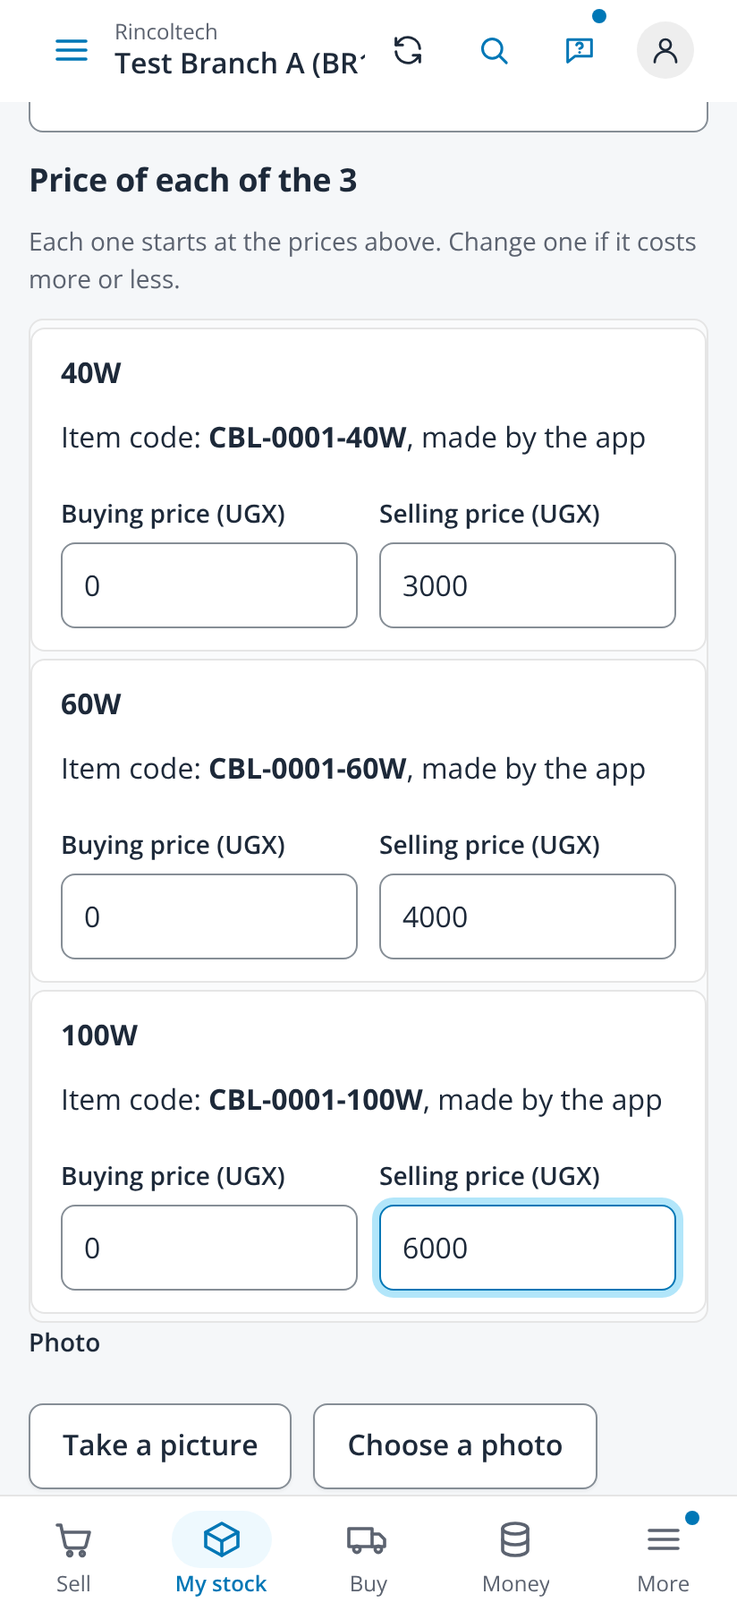
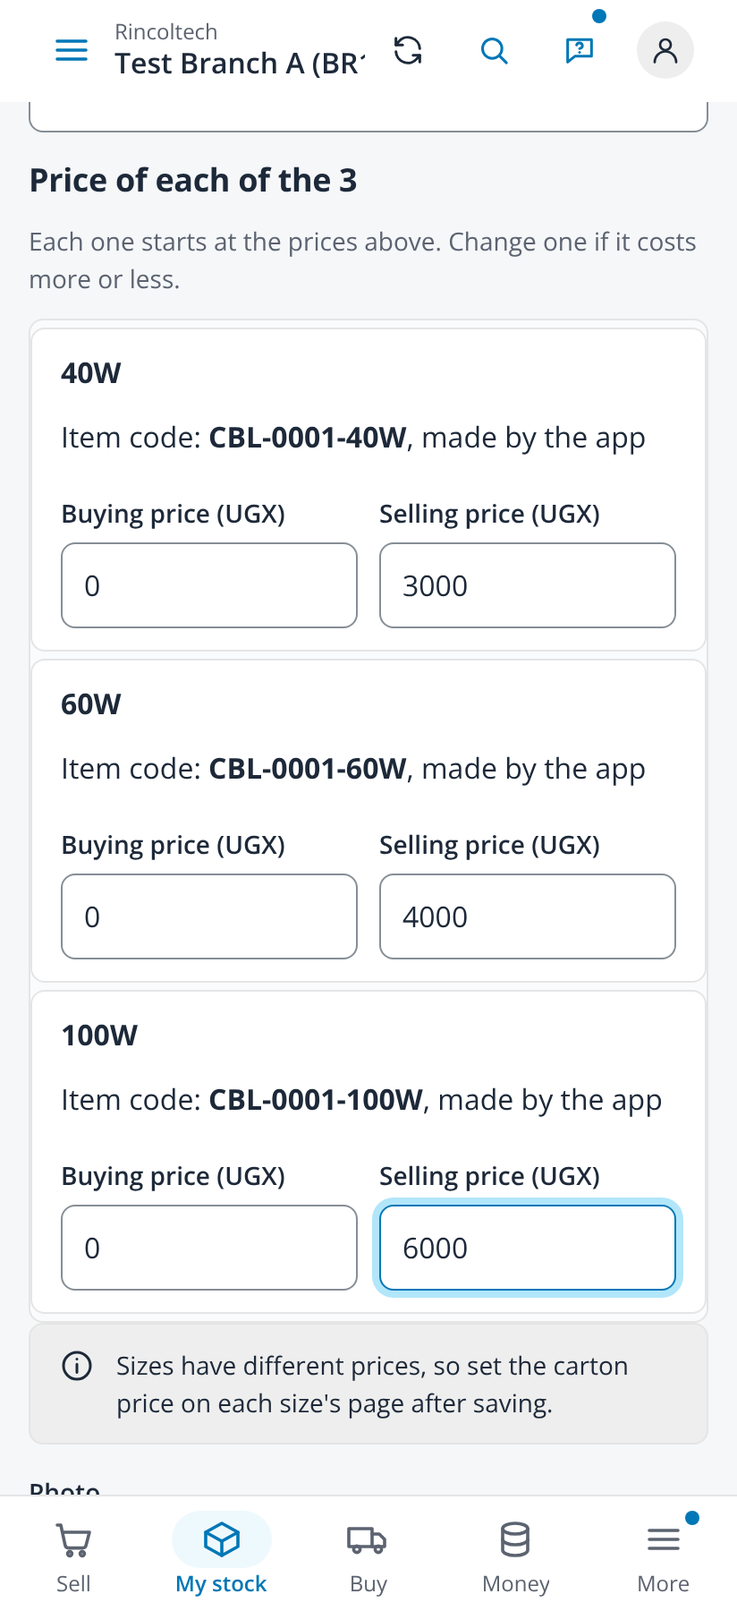
No package price is guessed for sizes priced apart; cable starts at 1mm (round 2 of #723)
While every size keeps the item's selling and buying price, each size's
package gets the price sent. Once any size has its own price, every
size's packages are made with no price of their own, on the server and
in the form, which says: Sizes have different prices, so set the carton
price on each size's page after saving. The scaling of the last push is
gone. The cable list ships 1mm instead of 1.0mm so it never shares the
code 10MM with 10mm. ADR-111, FR-RET-83, the endpoint row and the
screenshots follow.

Refs #697

Changed region(s): [[0.0303, 0.8089, 0.8495, 0.9333]]

diff --git a/frontend/src/areas/staff/retail/new-item-sizes.dom.test.tsx b/frontend/src/areas/staff/retail/new-item-sizes.dom.test.tsx
@@ -127,7 +127,12 @@ describe('sizes on Add an item', () => {
     fireEvent.click(screen.getByRole('radio', { name: 'Yes' }));
     fireEvent.change(screen.getByLabelText(/^Package unit/), { target: { value: 'u2' } });
     fireEvent.change(screen.getByLabelText(/^How many bulbs in one carton/), { target: { value: '24' } });
+    fireEvent.change(screen.getByLabelText(/^Selling price of one carton/), { target: { value: '96000' } });
+    expect(screen.queryByTestId('size-pack-note')).toBeNull();
     fireEvent.change(screen.getByLabelText('Selling price of 40W'), { target: { value: '3000' } });
+    fireEvent.change(screen.getByLabelText('Selling price of 100W'), { target: { value: '6000' } });
+    // Round 2 of #723: sizes priced apart get no carton price, and the form says where to set it.
+    expect(screen.getByTestId('size-pack-note').textContent).toBe("Sizes have different prices, so set the carton price on each size's page after saving.");
     fireEvent.click(screen.getByRole('button', { name: 'Add item' }));
     await waitFor(() => expect(createFamily).toHaveBeenCalledTimes(1));
     expect(createProduct).not.toHaveBeenCalled();
@@ -136,10 +141,43 @@ describe('sizes on Add an item', () => {
       category_id: 'c1',
       unit_id: 'u1',
       sell_minor: 4000,
-      variants: [{ size: '40W', sell_minor: 3000 }, { size: '60W', sell_minor: 4000 }, { size: '100W', sell_minor: 4000 }],
+      variants: [{ size: '40W', sell_minor: 3000 }, { size: '60W', sell_minor: 4000 }, { size: '100W', sell_minor: 6000 }],
       packs: [{ unit_id: 'u2', factor: '24', purpose: 'both' }],
     });
+    expect((createFamily.mock.calls[0]?.[0] as { packs: object[] }).packs[0]).not.toHaveProperty('sell_minor');
     expect((await screen.findAllByText('Test longlife bulb added in 3 sizes, with carton of 24.')).length).toBeGreaterThan(0);
+  });
+
+  // JUSTIFICATION-A3: round 2 of #723 asks a DOM test of one price with a carton price, and of a kind switch.
+  it('saves the carton price on every size while all keep the item\'s price', async () => {
+    createFamily.mockImplementation(async () => family);
+    open();
+    await fill();
+    fireEvent.click(screen.getByRole('radio', { name: 'Yes, sizes, colours or types' }));
+    fireEvent.click(await screen.findByRole('button', { name: 'Bulbs (watts)' }));
+    for (const s of ['40W', '60W', '100W']) fireEvent.click(chip('Sizes', s));
+    fireEvent.click(screen.getByRole('radio', { name: 'Yes' }));
+    fireEvent.change(screen.getByLabelText(/^Package unit/), { target: { value: 'u2' } });
+    fireEvent.change(screen.getByLabelText(/^How many bulbs in one carton/), { target: { value: '24' } });
+    fireEvent.change(screen.getByLabelText(/^Selling price of one carton/), { target: { value: '96000' } });
+    expect(screen.queryByTestId('size-pack-note')).toBeNull();
+    fireEvent.click(screen.getByRole('button', { name: 'Add item' }));
+    await waitFor(() => expect(createFamily).toHaveBeenCalledTimes(1));
+    expect(createFamily.mock.calls[0]?.[0]).toMatchObject({ packs: [{ unit_id: 'u2', factor: '24', purpose: 'both', sell_minor: 96000 }] });
+  });
+
+  it('drops the ready sizes of the kind left, and keeps the shop\'s own', async () => {
+    open();
+    await fill();
+    fireEvent.click(screen.getByRole('radio', { name: 'Yes, sizes, colours or types' }));
+    fireEvent.click(await screen.findByRole('button', { name: 'Bulbs (watts)' }));
+    fireEvent.click(chip('Sizes', '40W'));
+    fireEvent.change(screen.getByLabelText('Type another size'), { target: { value: 'Long neck' } });
+    fireEvent.keyDown(screen.getByLabelText('Type another size'), { key: 'Enter' });
+    fireEvent.click(screen.getByRole('button', { name: 'Clothes' }));
+    expect(screen.queryByRole('button', { name: '40W' })).toBeNull();
+    expect(chip('Your sizes', 'Long neck').getAttribute('aria-pressed')).toBe('true');
+    expect(SIZE_KINDS.find((k) => k.key === 'cable')?.sizes[0]).toBe('1mm');
   });
 
   it('takes colours alone, typed ones too, and asks for at least two', async () => {

diff --git a/frontend/src/areas/staff/retail/catalogue-products.tsx b/frontend/src/areas/staff/retail/catalogue-products.tsx
@@ -170,6 +170,9 @@ export function ProductForm({ product, category: fixed, onSaved, onCancel, onOpe
   const options = chosenOptions(sizing);
   const preview = usePreview(planVariants({ baseCode: chosen ? chosen.next_code ?? `${chosen.code_prefix ?? ''}-0001` : 'ITEM', ...options, costMinor: profit ? (costOf ?? 0) : 0, sellMinor: sellOf ?? 0 }));
   const sized = !product && canManage && sizing.answer === 'yes';
+  // Owner, round 2 of #723: while any size has its own price, the packages are saved with no price; never a guessed one.
+  const onePrice = !sized || preview.rows.every((r) => parseMinor(r.sellText, RETAIL_CURRENCY) === (sellOf ?? 0) && (!profit || parseMinor(r.costText, RETAIL_CURRENCY) === (costOf ?? 0)));
+  const packWord = oneOf((units.data ?? []).find((u) => u.id === packages[0]?.unitId), 'package');
   const sizeProblem = sized ? sizesProblem(preview.rows) : null;
   const complete = description.trim() !== '' && categoryId !== '' && unitProblem === null && (product ? true : sellOf !== null && (!profit || costOf !== null))
     && (!variant || size.trim() !== '' || colour.trim() !== '') && packages.every((r) => rowProblem(r, packages) === null) && sizeProblem === null;
@@ -190,7 +193,7 @@ export function ProductForm({ product, category: fixed, onSaved, onCancel, onOpe
       if (product) return { saved: await retail.updateProduct(product.id ?? '', product.version ?? 1, { description: description.trim(), category_id: categoryId, unit_id: unitId, active, ...reason }), photoNote: null };
       // Issue #699: the level it is usually sold at keeps the price typed for one of it; Buy stock opens on the usual buying level.
       const priced = packages.map((r) => (sellPieces !== null && r.key === sellAt.key ? { ...r, priceMinor: sellAt.priceMinor } : r));
-      const packs = packages.length > 0 ? { packs: packsToSend(priced, mayPrice, buyPieces !== null ? buyAt.key : null) } : {};
+      const packs = packages.length > 0 ? { packs: packsToSend(priced, mayPrice && onePrice, buyPieces !== null ? buyAt.key : null) } : {};
       if (sized) {
         // Issue #697: one save makes the item, each size as its product and each size's packages; all of it or none.
         const family = await retail.createFamily({ name: description.trim(), category_id: categoryId, unit_id: unitId, sell_minor: sellOf ?? 0, cost_minor: profit ? (costOf ?? 0) : 0, variants: linesOf(preview.rows, profit), ...reason, ...packs });
@@ -379,7 +382,8 @@ export function ProductForm({ product, category: fixed, onSaved, onCancel, onOpe
             />
           </UsualLevel>
           {!profit && <p className="hint">The buying price is set when you buy stock.</p>}
-          {sized && <SizePrices rows={preview.rows} profit={profit} onEdit={preview.edit} codesKnown={chosen !== undefined} problem={sizeProblem} showErrors={showErrors} />}
+          {sized && <SizePrices rows={preview.rows} profit={profit} onEdit={preview.edit} codesKnown={chosen !== undefined} problem={sizeProblem} showErrors={showErrors}
+            note={!onePrice && packages.length > 0 ? `Sizes have different prices, so set the ${packWord} price on each size's page after saving.` : null} />}
           <PhotoChoice id="item-photo" file={photo} onChange={setPhoto} />
           <PacksTurnOn />
         </>

diff --git a/frontend/src/areas/staff/retail/new-item-sizes.tsx b/frontend/src/areas/staff/retail/new-item-sizes.tsx
@@ -133,7 +133,9 @@ export function chosenOptions(value: SizesAnswer) {
 }
 
 /** The price of each size, under the item's own prices, which every size starts at. */
-export function SizePrices({ rows, profit, onEdit, codesKnown, problem, showErrors }: {
+export function SizePrices({ rows, profit, onEdit, codesKnown, problem, showErrors, note = null }: {
+  /** Round 2 of #723: why the packages are saved without a price. */
+  note?: string | null;
   rows: PreviewRow[];
   profit: boolean;
   onEdit: Parameters<typeof VariantPreview>[0]['onEdit'];
@@ -144,8 +146,9 @@ export function SizePrices({ rows, profit, onEdit, codesKnown, problem, showErro
   return (
     <section aria-label="Price of each size" data-testid="size-prices">
       <h3>{rows.length === 0 ? 'Price of each size' : `Price of each of the ${rows.length}`}</h3>
-      <Hint full>Each one starts at the prices above. Change one if it costs more or less. A package of a dearer size costs more in the same way.</Hint>
+      <Hint full>Each one starts at the prices above. Change one if it costs more or less.</Hint>
       {rows.length > 0 && <VariantPreview rows={rows} profit={profit} onEdit={onEdit} codesKnown={codesKnown} />}
+      {note && <p role="note" className="alert alert-info" data-testid="size-pack-note">{note}</p>}
       {problem && (showErrors || rows.length > 0) && <p role="note" className="alert alert-warning">{problem}</p>}
     </section>
   );

diff --git a/frontend/src/api/retail-variants.ts b/frontend/src/api/retail-variants.ts
@@ -20,12 +20,15 @@ export const VARIANT_TOKEN = 7;
 /** Issue #697 (D98): the colours every shop is offered as chips on Add an item, shipped with the app. */
 export const READY_COLOURS = ['Black', 'White', 'Red', 'Blue', 'Green', 'Yellow', 'Orange', 'Brown', 'Grey', 'Pink', 'Purple', 'Silver', 'Gold', 'Clear'] as const;
 
-/** Issue #697 (D98): the kinds of size, each with its ready sizes; Other has none, the shop types its own. */
+/**
+ * Issue #697 (D98): the kinds of size, each with its ready sizes; Other has none, the shop types its own. Cable starts at 1mm,
+ * not 1.0mm, so it never shares the code 10MM with 10mm (owner, round 2 of #723).
+ */
 export const SIZE_KINDS = [
   { key: 'clothes', label: 'Clothes', sizes: ['XS', 'S', 'M', 'L', 'XL', 'XXL'] },
   { key: 'shoes', label: 'Shoes', sizes: Array.from({ length: 11 }, (_, i) => String(36 + i)) },
   { key: 'bulbs', label: 'Bulbs (watts)', sizes: ['5W', '7W', '9W', '12W', '15W', '18W', '20W', '40W', '60W', '100W'] },
-  { key: 'cable', label: 'Cable (mm)', sizes: ['1.0mm', '1.5mm', '2.5mm', '4mm', '6mm', '10mm'] },
+  { key: 'cable', label: 'Cable (mm)', sizes: ['1mm', '1.5mm', '2.5mm', '4mm', '6mm', '10mm'] },
   { key: 'other', label: 'Other', sizes: [] },
 ] as const satisfies readonly { key: string; label: string; sizes: readonly string[] }[];
 

diff --git a/backend/src/main/java/com/rincoltech/bms/retail/catalogue/internal/FamilyService.java b/backend/src/main/java/com/rincoltech/bms/retail/catalogue/internal/FamilyService.java
@@ -98,15 +98,20 @@ class FamilyService {
                 VariantGrid.plan(base, r.sizes(), r.colours(), r.variants(), r.costMinor(), r.sellMinor(), Set.of(), 0);
         requireSome(plan);
         // Issue #697 (ADR-111): Add an item's packages, checked before anything is written, then made on every size.
-        List<PackRequest> packs = r.packs() == null ? List.of() : r.packs();
+        List<PackRequest> asked = r.packs() == null ? List.of() : r.packs();
+        // Owner, round 2 of #723: a package price is never copied to a size priced differently, nor guessed for it;
+        // while any size has its own price, the packages are made with no price of their own.
+        boolean onePrice =
+                plan.stream().allMatch(v -> v.sellMinor() == r.sellMinor() && v.costMinor() == r.costMinor());
+        List<PackRequest> packs =
+                onePrice ? asked : asked.stream().map(FamilyService::unpriced).toList();
         List<String> purposes = catalogue.checkPacks(packs);
         String duplicateReason = catalogue.acceptItemName(name, r.unitId(), null, Set.of(), r.duplicateReason());
         UUID id = UUID.randomUUID();
         UUID by = CurrentPrincipal.require().userId();
         repo.insertFamily(id, name, base, r.categoryId(), r.unitId(), by, duplicateReason);
         for (UUID variant : insertVariants(id, name, r.categoryId(), r.unitId(), plan, by, true)) {
-            Product size = repo.find(variant).orElseThrow();
-            catalogue.makePacks(size, pricedFor(packs, size.sellMinor(), r.sellMinor()), purposes, by);
+            catalogue.makePacks(repo.find(variant).orElseThrow(), packs, purposes, by);
         }
         Map<String, Object> after = new LinkedHashMap<>();
         after.put("name", name);
@@ -124,31 +129,12 @@ class FamilyService {
         return get(id);
     }
 
-    // JUSTIFICATION-A3: the review of #723 asks each size's package price in proportion; nothing scales one yet.
-    /**
-     * Review of #723: a package's selling price is given for the item's price, so a size priced differently gets it in the
-     * same proportion, rounded half up (a carton at 96,000 for 4,000 a piece is 144,000 for the size at 6,000). A pack with
-     * no price, or an item priced at 0, keeps what was sent.
-     */
-    static List<PackRequest> pricedFor(List<PackRequest> packs, long sizeSell, long itemSell) {
-        if (sizeSell == itemSell || itemSell <= 0) {
-            return packs;
-        }
-        return packs.stream()
-                .map(k -> k.sellMinor() == null
-                        ? k
-                        : new PackRequest(
-                                k.unitId(),
-                                k.factor(),
-                                k.purpose(),
-                                BigDecimal.valueOf(k.sellMinor())
-                                        .multiply(BigDecimal.valueOf(sizeSell))
-                                        .divide(BigDecimal.valueOf(itemSell), 0, RoundingMode.HALF_UP)
-                                        .longValueExact(),
-                                k.holdsUnitId(),
-                                k.holdsQty(),
-                                k.usualBuy()))
-                .toList();
+    /** The package as sent, without a selling price of its own (round 2 of #723). */
+    private static PackRequest unpriced(PackRequest k) {
+        return k == null
+                ? null
+                : new PackRequest(
+                        k.unitId(), k.factor(), k.purpose(), null, k.holdsUnitId(), k.holdsQty(), k.usualBuy());
     }
 
     /** Issue #697 (ADR-111): the sizes and colours the shop typed before, offered again beside the app's ready lists. */

diff --git a/backend/src/test/java/com/rincoltech/bms/retail/RetailSizesInAddItemIT.java b/backend/src/test/java/com/rincoltech/bms/retail/RetailSizesInAddItemIT.java
@@ -113,24 +113,37 @@ class RetailSizesInAddItemIT extends IntegrationTest {
         assertThat(count(packsAudited)).isEqualTo(3);
     }
 
-    // JUSTIFICATION-A3: the review of #723 asks a test of a priced carton on sizes priced differently.
-    /** Review of #723: a carton priced for the item's 4,000 a piece is priced for each size in the same proportion. */
+    // JUSTIFICATION-A3: round 2 of #723 asks this test of a priced carton, sizes priced apart and at one price.
+    /** Owner, round 2 of #723: a carton price is saved on every size only while every size keeps the item's price. */
     @Test
-    void aPricedCartonFollowsEachSizesOwnPrice() {
+    void aCartonPriceIsSavedOnlyWhileEverySizeKeepsTheItemsPrice() {
         Map<String, Object> carton24 = pack(carton, "24");
         carton24.put("sell_minor", 96_000);
-        ResponseEntity<JsonNode> r =
+        // 40W at 3,000, 60W at the item's 4,000 and 100W at 6,000 a piece: no carton price on any size.
+        ResponseEntity<JsonNode> apart =
                 api.post("/product-families", item("Test Longlife Bulb", List.of(carton24)), ADMIN);
-        assertThat(r.getStatusCode()).as("%s", r.getBody()).isEqualTo(HttpStatus.CREATED);
-        List<Long> cartons = new ArrayList<>();
-        for (JsonNode v : r.getBody().get("variants")) {
-            JsonNode packs = api.get("/products/" + v.get("id").asString() + "/units", ADMIN)
+        assertThat(apart.getStatusCode()).as("%s", apart.getBody()).isEqualTo(HttpStatus.CREATED);
+        for (JsonNode v : apart.getBody().get("variants")) {
+            JsonNode k = api.get("/products/" + v.get("id").asString() + "/units", ADMIN)
                     .getBody()
-                    .get("items");
-            cartons.add(packs.get(0).get("sell_minor").asLong());
+                    .get("items")
+                    .get(0);
+            assertThat(k.get("factor").asString()).isEqualTo("24.000");
+            assertThat(k.has("sell_minor")).as("%s", k).isFalse();
         }
-        // 40W at 3,000, 60W at the item's 4,000 and 100W at 6,000 a piece.
-        assertThat(cartons).containsExactly(72_000L, 96_000L, 144_000L);
+        // All at one price: the carton price is saved on each.
+        Map<String, Object> same = item("Test Steady Bulb", List.of(carton24));
+        same.remove("variants");
+        same.put("sizes", List.of("40W", "60W", "100W"));
+        ResponseEntity<JsonNode> one = api.post("/product-families", same, ADMIN);
+        assertThat(one.getStatusCode()).as("%s", one.getBody()).isEqualTo(HttpStatus.CREATED);
+        for (JsonNode v : one.getBody().get("variants")) {
+            JsonNode k = api.get("/products/" + v.get("id").asString() + "/units", ADMIN)
+                    .getBody()
+                    .get("items")
+                    .get(0);
+            assertThat(k.get("sell_minor").asLong()).isEqualTo(96_000);
+        }
     }
 
     @Test

diff --git a/docs/sdd/03-functional-requirements.md b/docs/sdd/03-functional-requirements.md
@@ -1028,7 +1028,7 @@ by `docs/specs/retail-pilot-data-dictionary.md`. `MVP` here is the retail first 
 | FR-RET-79 | A shop shall add an item, its prices and how many it has in one form and one tap (issue #632, owner decision D67, ADR-101). Quick add asks the Name, the Selling price, the Buying price (optional, for whoever may see it), How many do you have here now? and Where (the branch in use first, a store may be chosen), the Category (needed and right under the Name since issue #688, FR-UXN-12; the screen never leaves it out) and unit (the shop's piece unit; a box, carton, dozen or pack is never the item's own unit), an optional Comes in cartons of (issue #688, owner decision D76: with packs on, the size gives the new item its own carton pack for selling and buying through the pack route, the Carton unit made when the shop has none, and How many then takes full cartons and loose ones, sent as pieces; the line says "Test bulb added: 3 cartons and 5 pieces at Test Shop One"), and an optional Photo; it is reached from the Stock menu (and More), the first-run card, the catalogue home, the Items page and Sell's not-found line. | One request (`POST /retail/quick-add`) makes the item and adds its stock at the chosen branch, or neither; the stock is opening stock against opening balance equity, never profit and never lost or damaged stock; other items keep their stock; the line says "Test bulb added: 600 pc at Test Store" with Add another (the form cleared, the category and where kept) and Sell it (the sale opens at that branch with the item on it); a repeated name offers Use the existing one and just add stock, which adds the number typed to what the item has (50 and 10 make 60); General and Piece are made when missing; the stock needs `retail.stocktake.commit` at the branch, and without it the item is added with no stock; offline the form says it needs the internet. Goods just bought with shop money are ticked I just bought these, take the money from cash (off by default; Cash or Mobile money; the buying price then needed; issue #646, owner decision D69): the stock is one purchase paid from that account of the branch, as Buy stock books it, never opening balance equity, and the total that comes out shows before Add; the tick needs `retail.purchase.create` at the branch, checked on the server. `RetailQuickAddIT`, `quick-add.dom.test.tsx` | MVP |
 | FR-RET-80 | An item shall be added in its smallest unit, with its packages in the same form and save (issue #689, ADR-106). Add an item asks "Smallest unit you sell" ("The single thing a customer can buy. For example piece, bulb, metre, litre."), and a package word (box, carton, dozen, pack, packet, bag, sack, crate, case, tray, bundle, bale, set of N, and the short codes ctn, pkt, bx, doz, dz) is refused there: "A box is a package. Choose the smallest unit, like piece, then add the box below." While the units capability is on, "Do you buy or sell it in boxes, cartons or other packages?" No or Yes; Yes shows package rows, each with the package unit, "How many bulbs in one carton" (a whole number from 2 to 100,000), Used for (Both, Buying, Selling; Both first) and an optional "Selling price of one carton", and Add another package. The prices read "Buying price of one bulb" and "Selling price of one bulb". Add item saves the item and its packages together, the toast says "60W bulb added as LGH-0001, with carton of 10", and the new item leads the Items list. Edit item still adds packages later. | One `POST /retail/products` with `packs`, one transaction: a refused package saves nothing and is named by `pack_index` and fields `packs[i].unit_id` or `packs[i].factor`, so the form shows it on that package's row; 422 `unit_is_package` for a package as the unit, also from the API, Quick add and `POST /retail/product-families`; every unit carries `is_package` from the one list, which Quick add reads too. `RetailNewItemPacksIT`, `new-item-packs.dom.test.tsx`. No migration. | MVP |
 | FR-RET-81 | An item's packages shall fit inside each other at any depth and be shown as a ladder (issue #699, owner decision D88, ADR-107). Each package says what it holds in its own words ("1 Carton holds 12 Boxes") and the app works out and shows the pieces ("So 1 carton = 120 pieces"); "Add a bigger package" adds a level on top with no limit; the ladder is shown biggest first with a chain in words ("1 carton → 12 boxes → each 10 pieces") and a Look inside drawing, the same on the item page and on Add an item. A change to a level shows "Check before saving" with each level's before and after ("1 carton will be 144 pieces. It was 120.") and works every level above out again; a size that is not 2 or more whole of the level below is refused in plain words, a level another holds is not removed, stock kept in pieces never changes and past lines keep their size. My stock and Count stock read and take every level ("2 cartons, 3 boxes and 5 pieces (275 pieces)", lower case in every sentence). Every level sells and is bought at its own price (FR-RET-80, ADR-099). Add an item asks "How do you usually buy it?" and "What do you pay for one carton?" and shows "That is UGX 5,000 a piece", and "How do you usually sell it, and at what price?"; Buy stock opens on the usual buying level. The electrical and hardware starters add Box of rolls and Crate of rolls. `RetailPackLadderIT`, `PackLadderTest`, `ladder-state.test.ts`, `package-ladder.dom.test.tsx`. Migration `V118`. | MVP |
-| FR-RET-83 | An item's sizes, colours or types shall be given in the same Add an item form, for every kind of shop, picked from ready lists (issue #697, owner decisions D81 and D98, ADR-111). After the smallest unit, "Does it come in different sizes, colours or types?" No or Yes, No first; No is the form of FR-RET-80. Yes asks "What kind of size?" (Clothes, Shoes, Bulbs (watts), Cable (mm), Other) and shows that kind's sizes as big chips (Clothes XS, S, M, L, XL, XXL; Shoes 36 to 46; Bulbs 5W, 7W, 9W, 12W, 15W, 18W, 20W, 40W, 60W, 100W; Cable 1.0mm, 1.5mm, 2.5mm, 4mm, 6mm, 10mm; Other none), then the colours as chips (Black, White, Red, Blue, Green, Yellow, Orange, Brown, Grey, Pink, Purple, Silver, Gold, Clear), each list with a box to type the shop's own; the sizes and colours the shop typed before are offered again as chips. Under the item's prices, "Price of each of the 3" lists each size with its code and its own selling price (and buying price for whoever may see costs), starting at the item's; at least two. The packages apply to every size. Add item saves it all, and the toast says "Longtime bulb added in 3 sizes, with carton of 24". | One `POST /retail/product-families` with `variants` and `packs`: the packages are checked before anything is written and made on every size in the same transaction, a refusal names its row and saves nothing; `GET /retail/product-families/options` gives the sizes and colours the items have, most used first. The ready lists ship in the PWA (`retail-variants.ts`), with no table and no per-shop setup. `RetailSizesInAddItemIT`, `new-item-sizes.dom.test.tsx`. No migration. | MVP |
+| FR-RET-83 | An item's sizes, colours or types shall be given in the same Add an item form, for every kind of shop, picked from ready lists (issue #697, owner decisions D81 and D98, ADR-111). After the smallest unit, "Does it come in different sizes, colours or types?" No or Yes, No first; No is the form of FR-RET-80. Yes asks "What kind of size?" (Clothes, Shoes, Bulbs (watts), Cable (mm), Other) and shows that kind's sizes as big chips (Clothes XS, S, M, L, XL, XXL; Shoes 36 to 46; Bulbs 5W, 7W, 9W, 12W, 15W, 18W, 20W, 40W, 60W, 100W; Cable 1mm, 1.5mm, 2.5mm, 4mm, 6mm, 10mm; Other none), then the colours as chips (Black, White, Red, Blue, Green, Yellow, Orange, Brown, Grey, Pink, Purple, Silver, Gold, Clear), each list with a box to type the shop's own; the sizes and colours the shop typed before are offered again as chips. Under the item's prices, "Price of each of the 3" lists each size with its code and its own selling price (and buying price for whoever may see costs), starting at the item's; at least two. The packages apply to every size; a package price is saved on each only while every size keeps the item's price, else none is and the form says "Sizes have different prices, so set the carton price on each size's page after saving." Add item saves it all, and the toast says "Longtime bulb added in 3 sizes, with carton of 24". | One `POST /retail/product-families` with `variants` and `packs`: the packages are checked before anything is written and made on every size in the same transaction, a refusal names its row and saves nothing; `GET /retail/product-families/options` gives the sizes and colours the items have, most used first. The ready lists ship in the PWA (`retail-variants.ts`), with no table and no per-shop setup. `RetailSizesInAddItemIT`, `new-item-sizes.dom.test.tsx`. No migration. | MVP |
 
 FR-RET-33 to FR-RET-41 are the trade capabilities (ADR-033, issue #190; design in `docs/specs/trade-capabilities.md`). Their phase `Trade` follows the retail first release and is built in the slices of the spec's section 17.
 

diff --git a/docs/sdd/07-api-design.md b/docs/sdd/07-api-design.md
@@ -1088,7 +1088,7 @@ Built (#51, catalogue):
 | GET | `/retail/products` | `retail.stock.read` | Filters `query` (code, description or category name), `category_id`, `active`; `limit`, `cursor`, ordered by code. Row: `{id, code, description, category_id, category, unit_id, unit, sell_minor, cost_minor*, currency, active, version}` |
 | POST | `/retail/products` | `retail.catalogue.manage` | `{description, category_id, unit_id, cost_minor, sell_minor, duplicate_reason?, packs?}`; writes the `initial` history row. **Issue #689 (ADR-106, FR-RET-80):** a unit whose `is_package` is true is refused as `unit_id` with 422 `unit_is_package`; `packs` (at most ten, each the body of `POST /retail/products/{id}/units`) are made after the item in the same transaction, with the same checks, codes and audit, so any refusal (404 `capability_not_enabled` while units are off, 403 `permission_denied` for a price without `retail.price.edit`, 422 `pack_not_sold`, `unknown_unit`, `inactive_unit`, `pack_unit_is_base_unit`, 409 `duplicate_pack`) saves nothing. The item always gets its category's next code, `PREFIX-0001`, the next number no item holds, taken under the category row's lock (issue #493, ADR-081, FR-RET-70); a `code` that is not blank is refused with 400 `item_code_made_by_app` (field problem `not_allowed`) and nothing is added (issue #562). **A name is kept once per unit (issue #352, ADR-044, FR-RET-44):** a description whose key (lower case without accents, spaces and punctuation collapsed) another product of the same unit has is refused with 422 `duplicate_product_name`, the problem body carrying `existing_id`, `existing_code`, `existing_name` and `may_add_anyway` (true for a holder of `core.settings.manage`); that administrator repeats the request with `duplicate_reason` (5 characters at least, stored on the product and in the audit entry); anyone else gets 403 `permission_denied`. The same name in another unit is allowed. FR-RET-01 |
 | GET | `/retail/product-families/options` | `retail.catalogue.manage` | Issue #697, ADR-111, FR-RET-83: `{sizes, colours}`, the sizes and the colours the business's items have, each once ignoring case (the spelling seen first alphabetically), the most used first, at most 60 of each; Add an item offers them again beside its ready lists |
-| POST | `/retail/product-families` | `retail.catalogue.manage` | Issue #384, FR-RET-51: `{name, category_id, unit_id, cost_minor, sell_minor, sizes?, colours?, variants?, packs?}`; `packs` (issue #697, ADR-111: at most ten, each the body of `POST /retail/products/{id}/units`) are checked before anything is written and made on every variant in the same transaction, with the refusals of `POST /retail/products` `packs` (`pack_index`, `packs[i].unit_id`, `packs[i].factor`), so any refusal saves nothing; a pack's `sell_minor` is for the item's `sell_minor`, and a variant priced differently gets it in the same proportion, rounded half up. The base code is the category's next code (`BLB-0007`), and a `base_code` or a line's `code` that is not blank is refused with 400 `item_code_made_by_app` (issue #562). Without `variants` every combination of `sizes` and `colours` is made (sizes first, in the order given; either list may be empty), each coded `BASE-SIZE-COLOUR` from the letters and digits of each part in capitals, seven at most (`BLB-0007-03M-BLUE`), at the item's prices; with `variants` (`[{size?, colour?, cost_minor?, sell_minor?}]`) exactly those. At most 100. 201 with the item (`RetailFamily`) and its `ETag`. 409 `duplicate_product_code` naming the code, 409 `duplicate_variant` (a size and colour named twice), 422 `duplicate_variant_code`, `too_many_variants`, `duplicate_product_name` (FR-RET-44). Audited as `retail.product_family.created` and one `retail.product.created` per variant |
+| POST | `/retail/product-families` | `retail.catalogue.manage` | Issue #384, FR-RET-51: `{name, category_id, unit_id, cost_minor, sell_minor, sizes?, colours?, variants?, packs?}`; `packs` (issue #697, ADR-111: at most ten, each the body of `POST /retail/products/{id}/units`) are checked before anything is written and made on every variant in the same transaction, with the refusals of `POST /retail/products` `packs` (`pack_index`, `packs[i].unit_id`, `packs[i].factor`), so any refusal saves nothing; a pack's `sell_minor` is kept only while every variant has the item's `sell_minor` and `cost_minor`; once any variant has its own price, every variant's packs are made with no price of their own (owner, round 2 of #723), never a guessed one. The base code is the category's next code (`BLB-0007`), and a `base_code` or a line's `code` that is not blank is refused with 400 `item_code_made_by_app` (issue #562). Without `variants` every combination of `sizes` and `colours` is made (sizes first, in the order given; either list may be empty), each coded `BASE-SIZE-COLOUR` from the letters and digits of each part in capitals, seven at most (`BLB-0007-03M-BLUE`), at the item's prices; with `variants` (`[{size?, colour?, cost_minor?, sell_minor?}]`) exactly those. At most 100. 201 with the item (`RetailFamily`) and its `ETag`. 409 `duplicate_product_code` naming the code, 409 `duplicate_variant` (a size and colour named twice), 422 `duplicate_variant_code`, `too_many_variants`, `duplicate_product_name` (FR-RET-44). Audited as `retail.product_family.created` and one `retail.product.created` per variant |
 | GET | `/retail/product-families/{family_id}` | `retail.stock.read` | `{id, name, base_code, category_id, category, unit_id, unit, sizes, colours, variants, stock_on_hand, stock_by_branch: [{branch_id, qty}], created_at, version}`: every variant (active or not, in the item's order) is a `RetailProduct` with `stock_on_hand` and `stock_branches`; the stock is summed over the branches the caller may read. Cost only with `retail.profit.read` |
 | PATCH | `/retail/product-families/{family_id}` | `retail.catalogue.manage` | `{name?, category_id?}` under `If-Match` (428, 409 `version_conflict`). A new name rewrites every variant's description (each passes FR-RET-44), a new category moves every variant. Audited as `retail.product_family.updated` |
 | POST | `/retail/product-families/{family_id}/variants` | `retail.catalogue.manage` | `{sizes?, colours?, variants?, cost_minor?, sell_minor?}`: as the create; a generated combination the item has already is skipped (422 `nothing_to_add` when none is left), a named one is refused (`duplicate_variant`); prices default to the item's first variant. An item never has more than 100 sizes and colours, counting those it has (422 `too_many_variants`). Each new size takes the first variant's active pack sizes (while the units capability is on) and its price list prices in force or coming, on the rules of a list price set by hand (issue #395): only while the price lists capability is on and the caller also holds `retail.pricelist.manage`; only in the size's own unit or a pack copied with it; only to a size that keeps the first variant's cost and selling price exactly; never below the new size's cost. Each copy is audited as `retail.price_list_item.created`. 201 with the item and `terms_copied: {packs_copied, price_list_items_copied, price_list_items_skipped?, price_list_items_not_copied: [{product_id, price_list_id, unit_id, min_qty, price_minor, reason}]}`; `price_list_items_skipped` is `price_list_permission` for every caller without `retail.pricelist.manage`, whether or not the size has list prices and whatever the capability (nothing of the lists is shown), or `price_lists_off`, and `reason` is `unit_not_sold`, `price_differs`, `below_cost` (only with `retail.profit.read`) or `not_copied` (the same without it), so the owner knows which list prices to set |

diff --git a/docs/adr/ADR-111-sizes-colours-and-types-in-add-an-item-from-ready-lists.md b/docs/adr/ADR-111-sizes-colours-and-types-in-add-an-item-from-ready-lists.md
@@ -21,7 +21,7 @@ sizes and colors and packages."
    catalogue sees it, as only they may add items.
 2. **Ready lists ship with the app.** Colours: Black, White, Red, Blue, Green, Yellow, Orange, Brown, Grey, Pink, Purple,
    Silver, Gold, Clear. Sizes are picked by kind first: Clothes XS to XXL; Shoes 36 to 46; Bulbs (watts) 5W to 100W; Cable
-   (mm) 1.0mm to 10mm; Other, typed. They are one list in the PWA (`READY_COLOURS` and `SIZE_KINDS` in
+   (mm) 1mm to 10mm (1mm, not 1.0mm, so it never shares the code `10MM` with 10mm; owner, round 2 of #723); Other, typed. They are one list in the PWA (`READY_COLOURS` and `SIZE_KINDS` in
    `frontend/src/api/retail-variants.ts`, beside the code rules), the same for every shop, with no setup and no table. Each
    is a 48px chip that turns on and off; a box beside each list takes a size or colour of the shop's own.
 3. **What a shop typed before is offered again.** `GET /retail/product-families/options` (permission
@@ -35,10 +35,11 @@ sizes and colors and packages."
    body of ADR-106's `packs`, at most ten). The packs are checked once before anything is written and then made on every
    size in the same transaction through the same `createPack`; a refusal names its row (`pack_index`, `packs[i].factor`) and
    saves nothing: no item, no size, no pack, no audit entry. The checks and the making are `CatalogueService.checkPacks` and
-   `makePacks`, shared with `POST /retail/products`, so the two routes cannot drift. A package's selling price is given for
-   the item's price; a size priced differently gets it in the same proportion, rounded half up (review of #723: a carton at
-   96,000 for 4,000 a piece is 144,000 for the size at 6,000 and 72,000 for the size at 3,000), so no size's carton sells
-   below its own pieces' worth.
+   `makePacks`, shared with `POST /retail/products`, so the two routes cannot drift. A package price is never copied to a size
+   priced differently and never guessed for it (owner, round 2 of #723): while every size keeps the item's selling and
+   buying price, each size's package gets the price sent; once any size has its own price, the packages are made with no
+   price of their own on every size, and the form says "Sizes have different prices, so set the carton price on each size's
+   page after saving."
 6. **The words.** The toast says "Longtime bulb added in 3 sizes, with carton of 24" (or "in 2 colours", "in 6 sizes and
    colours"). A HelpTip explains the question. The photo, if any, goes to the item.
 
@@ -50,6 +51,6 @@ Sell, Count stock, Buy stock and My stock already find the item and then the siz
 **Worse:** every size gets the same packages; a size with a different carton is changed on its own page afterwards. The
 ready lists are English only and change only with the app.
 
-**Watch for:** a code keeps only the letters and digits of a size, so 1.0mm and 10mm of the cable list both give `10MM`. The
-form says so before saving ("Two of them would have the code ..."), and the shop spells one differently, for example 1mm.
-Changing the code rule would change ADR-051's codes and is left to a later decision.
+**Watch for:** a code keeps only the letters and digits of a size, so two typed sizes such as 1.0mm and 10mm still give the
+same code. The form says so before saving ("Two of them would have the code ..."). A new ready size must not clash with
+another of its list. Sizes priced apart need their package prices set on each size's page after saving.

diff --git a/docs/ui/sizes-colours-697/README.md b/docs/ui/sizes-colours-697/README.md
@@ -7,7 +7,7 @@ taken from the retail mock with `frontend/scripts/sizes-screenshots.mjs`. Every 
 |---|---|
 | `01-sizes-chips` | "Does it come in different sizes, colours or types?" answered Yes, the kind Bulbs (watts) and 40W, 60W and 100W tapped |
 | `02-colours-chips` | The ready colours as chips, White tapped and Warm white typed and added |
-| `03-price-of-each-size` | A carton of 24 for every size, and the price of each of the 3, 40W cheaper and 100W dearer |
+| `03-price-of-each-size` | A carton of 24 for every size, and the price of each of the 3, 40W cheaper and 100W dearer; since the sizes are priced apart, the note says to set the carton price on each size's page after saving |
 | `04-added-in-3-sizes` | One tap saved it all: "Test Longtime Bulb added in 3 sizes, with carton of 24." and the next steps |
 
 To take them again:
